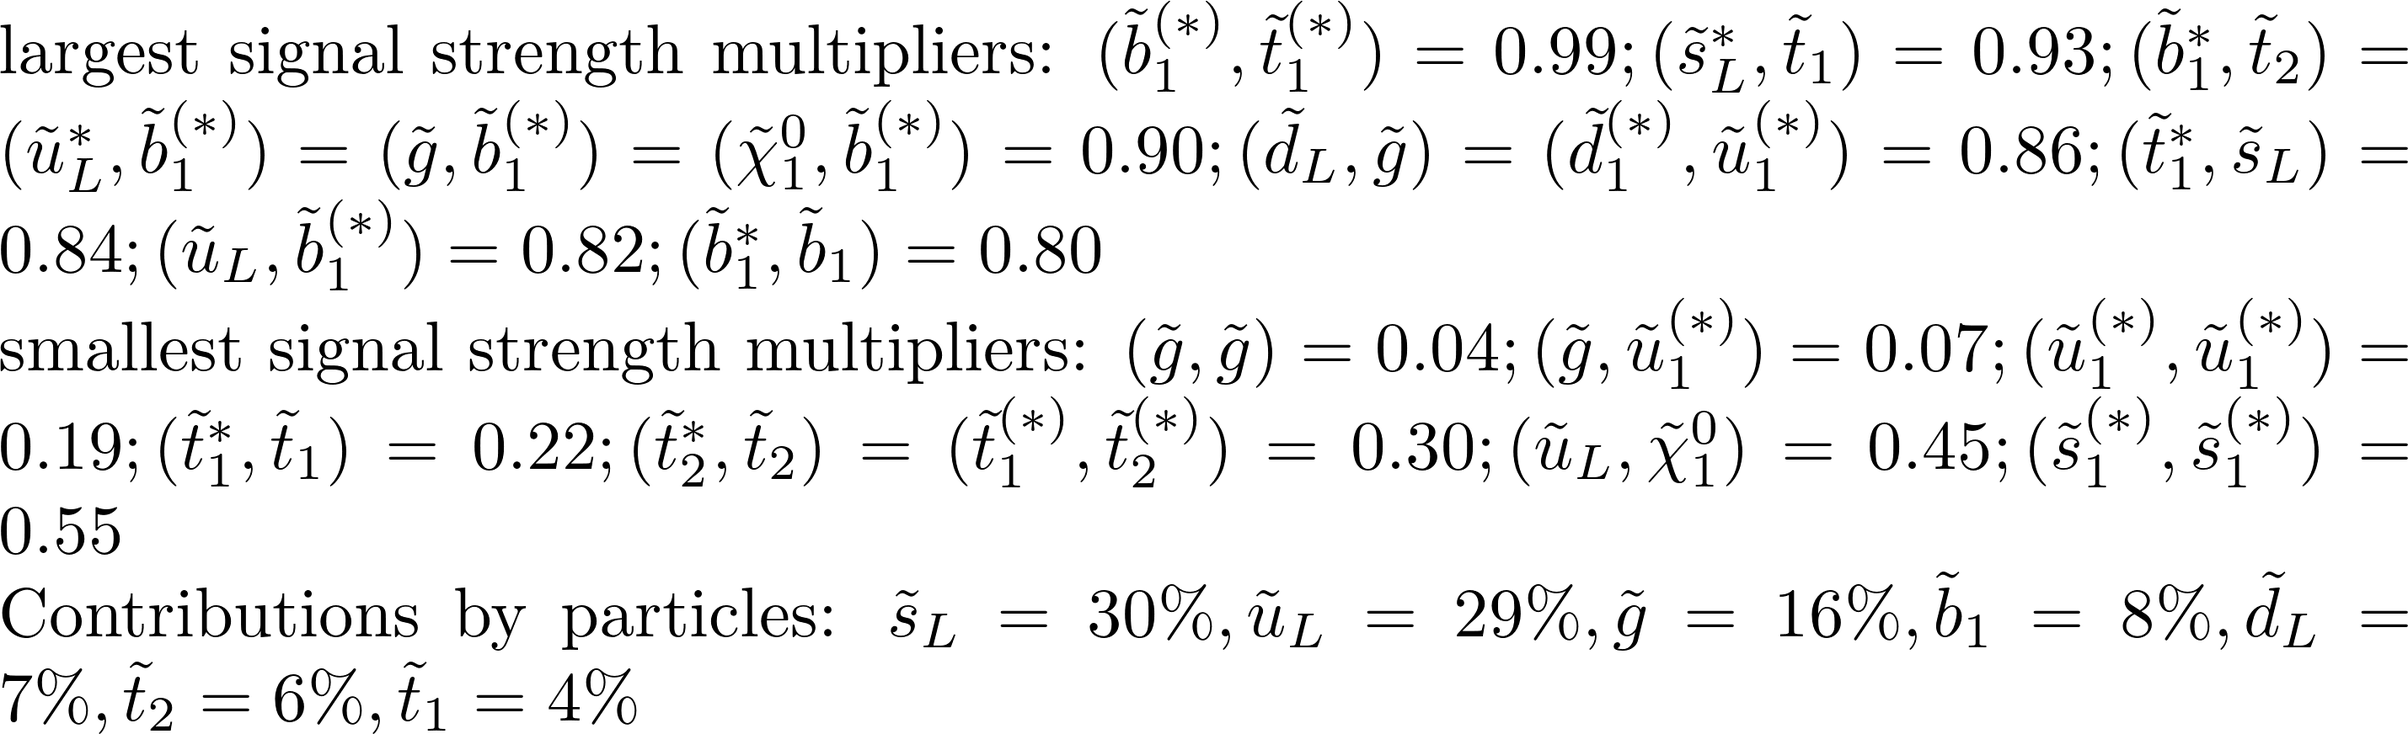
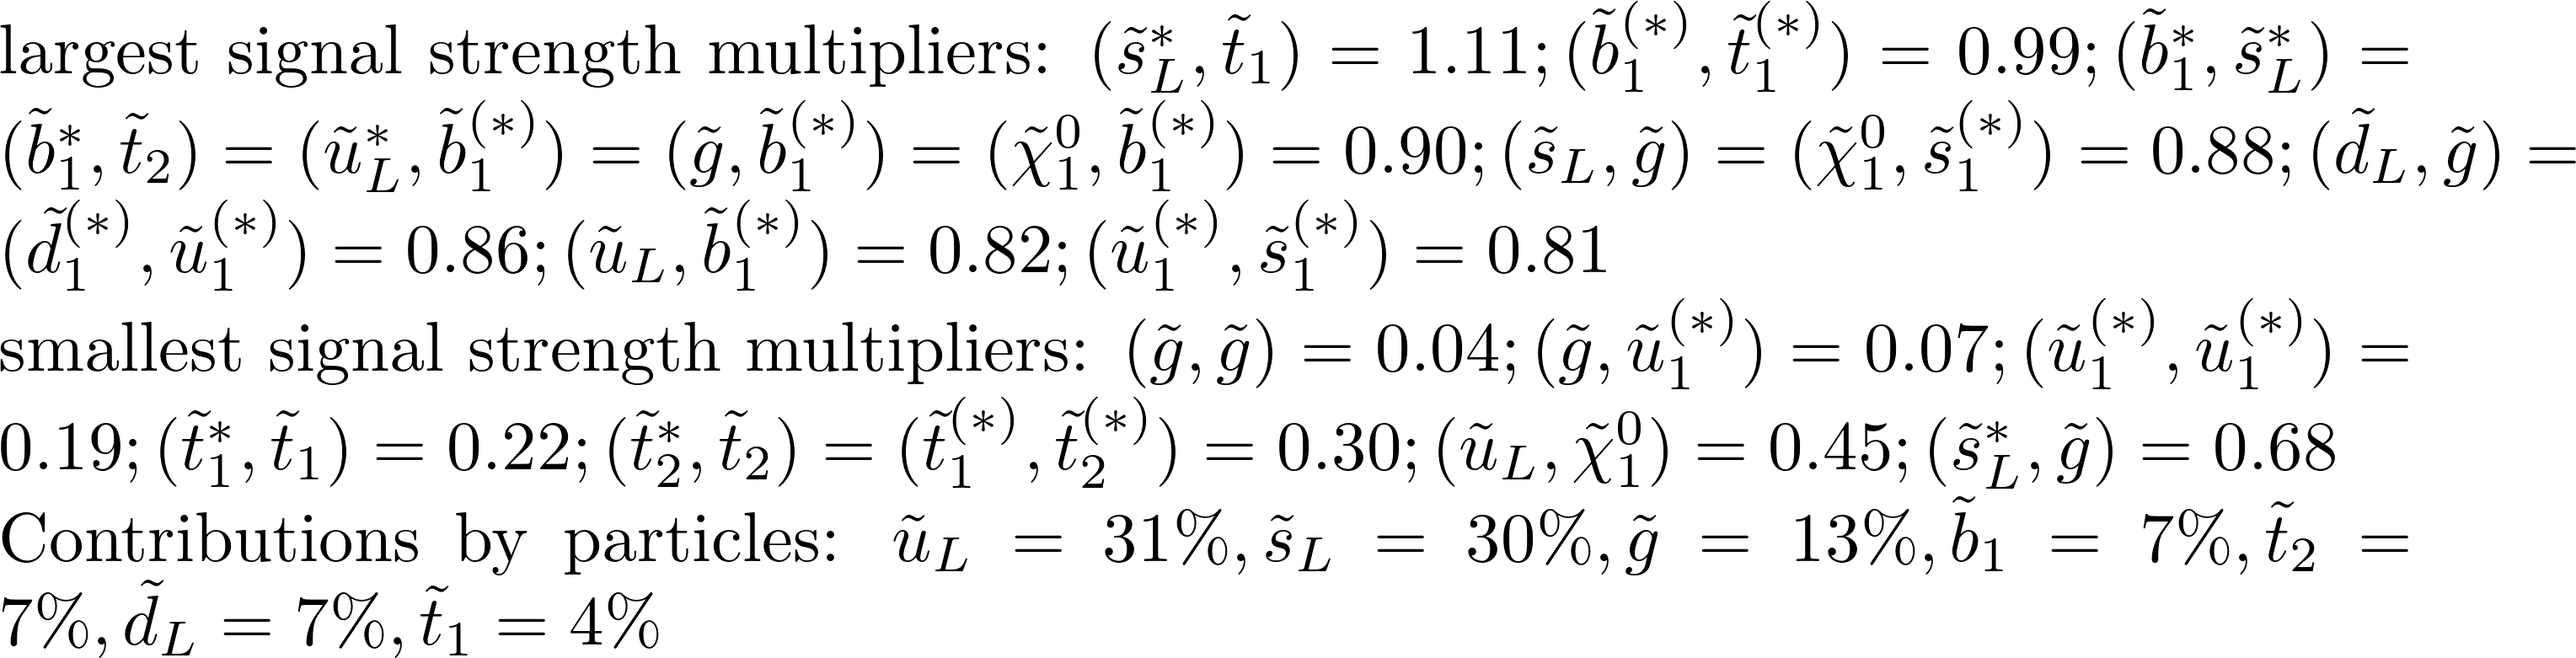
automated update by plotHiscore.py

Changed region(s): [[0.0, 0.0, 1.0, 1.0], [0.9965, 0.5839, 1.0, 0.6453], [0.9654, 0.4609, 1.0, 0.4917]]

diff --git a/protomodels/latest/index.html b/protomodels/latest/index.html
@@ -3,7 +3,7 @@
 <center>
 <table><td><h1>Current best protomodel: Z=3.44</h1><td><img height=60px src=https://smodels.github.io/pics/banner.png></table>
 </center>
-Trimmed <b><a href=./hiscore.slha>ProtoModel</a> <a href=./pmodel.py>(dict)</a> produced with <a href=https://smodels.github.io/docs/Validation123rc1>database v1.2.3rc1</a>, combination strategy <a href=./matrix_aggressive.png>aggressive</a> in step 208.</b> Z(untrimmed)=3.44.<br>
+Trimmed <b><a href=./hiscore.slha>ProtoModel</a> <a href=./pmodel.py>(dict)</a> produced with <a href=https://smodels.github.io/docs/Validation123rc1>database v1.2.3rc1</a>, combination strategy <a href=./matrix_aggressive.png>aggressive</a> in step 208.</b> Z(untrimmed)=3.45.<br>
 Z plots for: <a href=./M1000022.png>~&chi;<sub>1</sub><sup>0</sup></a>, <a href=./M1000021.png>~g</a>, <a href=./M1000001.png>~d<sub>L</sub></a>, <a href=./M1000005.png>~b<sub>1</sub></a>, <a href=./M1000003.png>~s<sub>L</sub></a>, <a href=./M1000002.png>~u<sub>L</sub></a>, <a href=./M2000006.png>~t<sub>2</sub></a>, <a href=./M1000006.png>~t<sub>1</sub></a>. HPD plots for: <a href=./llhd1000021.png>~g</a>, <a href=./llhd1000001.png>~d<sub>L</sub></a>, <a href=./llhd1000005.png>~b<sub>1</sub></a>, <a href=./llhd1000003.png>~s<sub>L</sub></a>, <a href=./llhd1000002.png>~u<sub>L</sub></a>, <a href=./llhd2000006.png>~t<sub>2</sub></a>, <a href=./llhd1000006.png>~t<sub>1</sub></a><br>
 <table width=80%>
 <tr><td>
@@ -16,14 +16,14 @@ Z plots for: <a href=./M1000022.png>~&chi;<sub>1</sub><sup>0</sup></a>, <a href=
 </ul>
 <td><br><b>Contributions per analysis:</b><br>
 <ul>
-<li> ATLAS-SUSY-2016-07: 43%
-<li> ATLAS-SUSY-2015-02: 42%
-<li> CMS-SUS-13-012: 7%
-<li> CMS-SUS-16-033: 6%
-<li> ATLAS-SUSY-2013-15: 3%
-<li> ATLAS-SUSY-2013-02: -2%
+<li> ATLAS-SUSY-2016-07: 42%
+<li> ATLAS-SUSY-2015-02: 39%
+<li> CMS-SUS-13-012: 8%
+<li> CMS-SUS-16-033: 7%
+<li> ATLAS-SUSY-2013-15: 5%
+<li> ATLAS-SUSY-2013-02: 0%
 <td><img width=600px src=./texdoc.png>
-<br><font size=-1>Last updated: Wed Apr  1 03:53:57 2020</font>
+<br><font size=-1>Last updated: Wed Apr  1 04:53:31 2020</font>
 </table><table style="width:80%">
 <td width=45%><img height=600px src=./ruler.png><td width=55%><img height=400px src=./decays.png>
 <font size=-3><iframe type="text/html" height="200px" width="100%" frameborder="0" src="rawnumbers.html"></iframe></font>

diff --git a/protomodels/latest/pmodel.py b/protomodels/latest/pmodel.py
@@ -1,1 +1,1 @@
-{'masses': {1000001: 1985.771, 1000002: 903.0, 1000003: 990.0, 1000005: 1544.0, 1000006: 681.0, 2000006: 700.0, 1000021: 2241.0, 1000022: 349.0}, 'ssmultipliers': {(1000001, 1000001): 0.747, (-1000001, 1000001): 0.747, (1000001, 1000002): 0.864, (-1000002, 1000001): 0.864, (1000001, 1000003): 0.641, (-1000003, 1000001): 0.641, (1000001, 1000005): 0.773, (1000001, 1000021): 0.864, (-1000001, 1000002): 0.864, (-1000002, -1000001): 0.864, (-1000003, -1000001): 0.641, (1000002, 1000002): 0.188, (-1000002, 1000002): 0.188, (1000002, 1000003): 0.682, (-1000003, 1000002): 0.682, (1000002, 1000005): 0.823, (-1000005, 1000002): 0.823, (1000002, 1000021): 0.074, (1000002, 1000022): 0.446, (-1000002, -1000002): 0.188, (-1000002, 1000003): 0.682, (-1000003, -1000002): 0.682, (-1000002, 1000005): 0.895, (-1000005, -1000002): 0.895, (-1000002, 1000021): 0.074, (1000003, 1000003): 0.549, (-1000003, 1000003): 0.549, (1000003, 1000005): 0.663, (-1000006, 1000003): 0.839, (1000003, 1000021): 0.741, (1000003, 1000022): 0.741, (-1000003, -1000003): 0.549, (-1000003, 1000005): 0.663, (-1000005, -1000003): 0.75, (-1000003, 1000006): 0.928, (-1000003, 1000021): 0.57, (-1000003, 1000022): 0.741, (-1000005, 1000005): 0.801, (-1000006, 1000005): 0.991, (1000005, 1000021): 0.895, (1000005, 1000022): 0.895, (-1000005, 1000006): 0.991, (-1000005, 2000006): 0.895, (-1000005, 1000021): 0.895, (-1000005, 1000022): 0.895, (-1000006, 1000006): 0.22, (-2000006, 1000006): 0.3, (-1000006, 2000006): 0.3, (-2000006, 2000006): 0.297, (1000021, 1000021): 0.038}, 'decays': {1000001: {1000022: 1.0}, 1000002: {1000022: 1.0}, 1000003: {1000022: 1.0}, 1000005: {1000022: 1.0}, 1000006: {1000022: 1.0}, 2000006: {1000022: 1.0}, 1000021: {(1000022, 1): 1.0}, 1000022: {}}, 'timestamp': 'Wed Apr  1 03:52:51 2020', 'Z': 3.438, 'step': 208}
+{'masses': {1000001: 1985.771, 1000002: 903.0, 1000003: 990.0, 1000005: 1544.0, 1000006: 681.0, 2000006: 700.0, 1000021: 2241.0, 1000022: 349.0}, 'ssmultipliers': {(1000001, 1000001): 0.747, (-1000001, 1000001): 0.747, (1000001, 1000002): 0.864, (-1000002, 1000001): 0.864, (1000001, 1000003): 0.764, (-1000003, 1000001): 0.764, (1000001, 1000005): 0.773, (1000001, 1000021): 0.864, (-1000001, 1000002): 0.864, (-1000002, -1000001): 0.864, (-1000003, -1000001): 0.764, (1000002, 1000002): 0.188, (-1000002, 1000002): 0.188, (1000002, 1000003): 0.813, (-1000003, 1000002): 0.813, (1000002, 1000005): 0.823, (-1000005, 1000002): 0.823, (1000002, 1000021): 0.074, (1000002, 1000022): 0.446, (-1000002, -1000002): 0.188, (-1000002, 1000003): 0.813, (-1000003, -1000002): 0.813, (-1000002, 1000005): 0.895, (-1000005, -1000002): 0.895, (-1000002, 1000021): 0.074, (1000003, 1000003): 0.781, (-1000003, 1000003): 0.781, (1000003, 1000005): 0.791, (1000003, 1000021): 0.884, (1000003, 1000022): 0.884, (-1000003, -1000003): 0.781, (-1000003, 1000005): 0.791, (-1000005, -1000003): 0.895, (-1000003, 1000006): 1.107, (-1000003, 1000021): 0.68, (-1000003, 1000022): 0.884, (-1000005, 1000005): 0.801, (-1000006, 1000005): 0.991, (1000005, 1000021): 0.895, (1000005, 1000022): 0.895, (-1000005, 1000006): 0.991, (-1000005, 2000006): 0.895, (-1000005, 1000021): 0.895, (-1000005, 1000022): 0.895, (-1000006, 1000006): 0.22, (-2000006, 1000006): 0.3, (-1000006, 2000006): 0.3, (-2000006, 2000006): 0.297, (1000021, 1000021): 0.038}, 'decays': {1000001: {1000022: 1.0}, 1000002: {1000022: 1.0}, 1000003: {1000022: 1.0}, 1000005: {1000022: 1.0}, 1000006: {1000022: 1.0}, 2000006: {1000022: 1.0}, 1000021: {(1000022, 1): 1.0}, 1000022: {}}, 'timestamp': 'Wed Apr  1 04:52:28 2020', 'Z': 3.443, 'step': 208}
